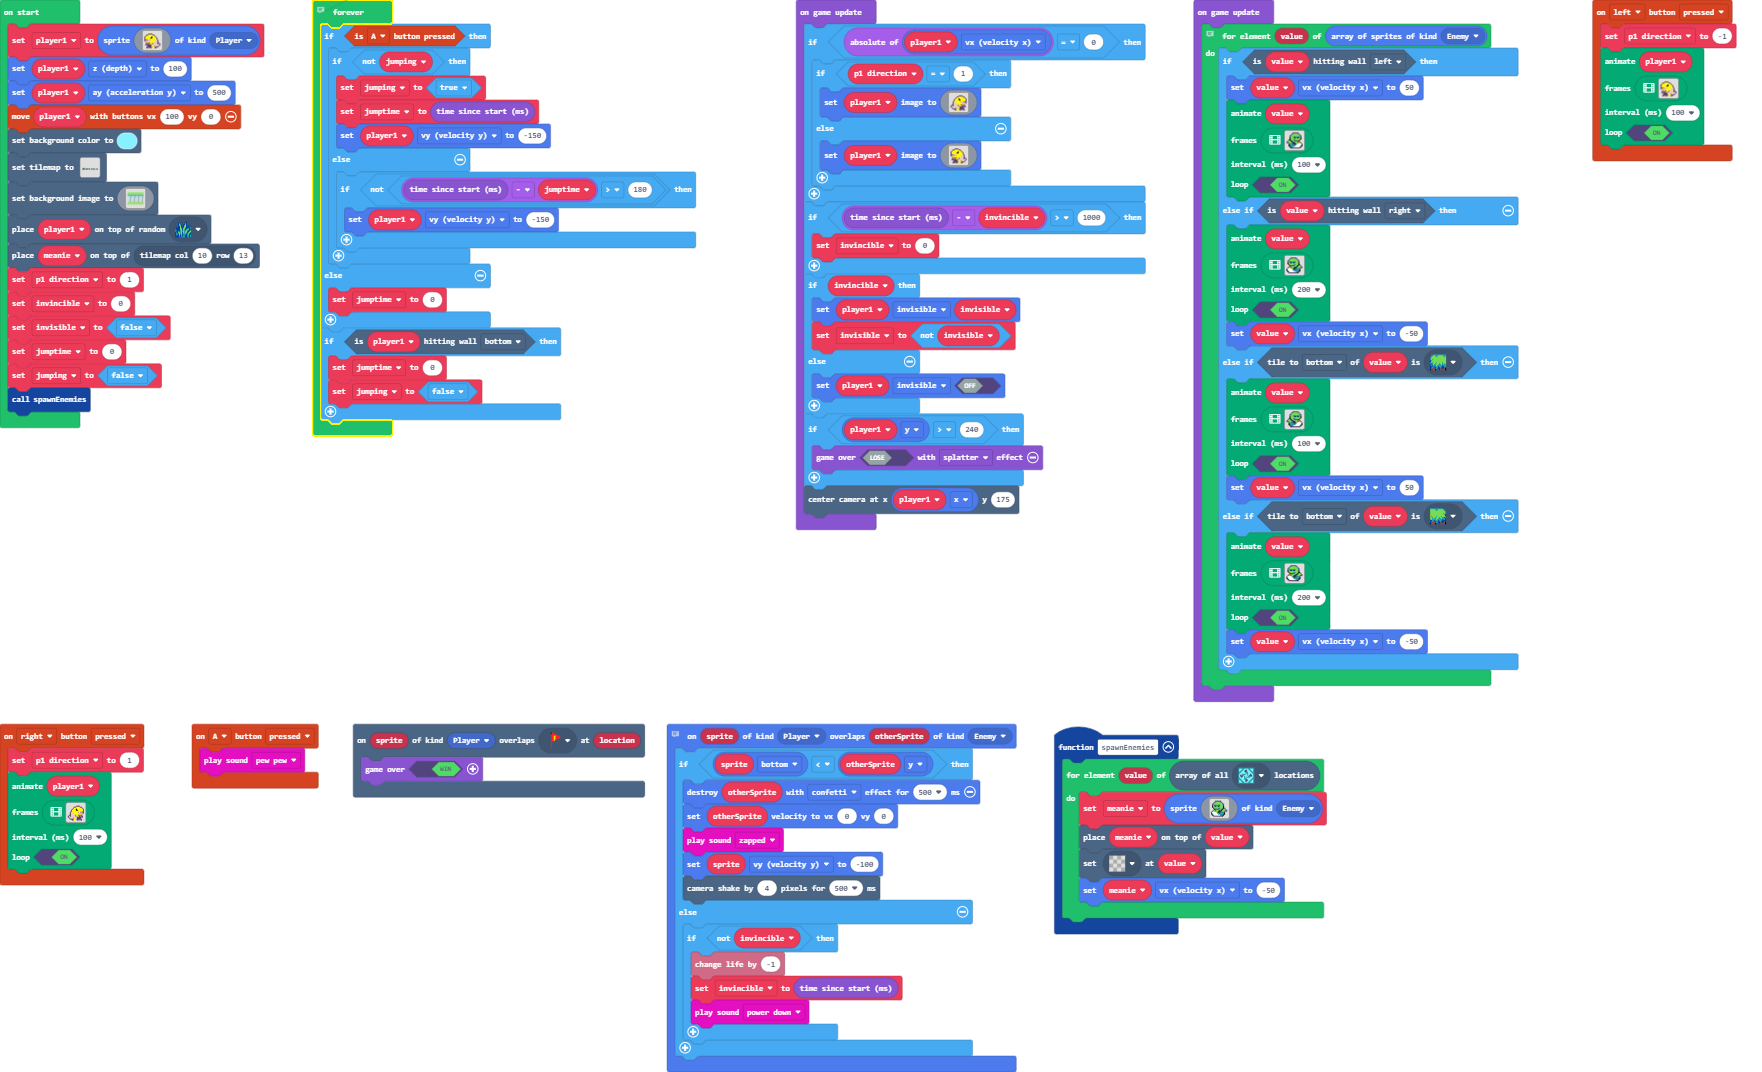
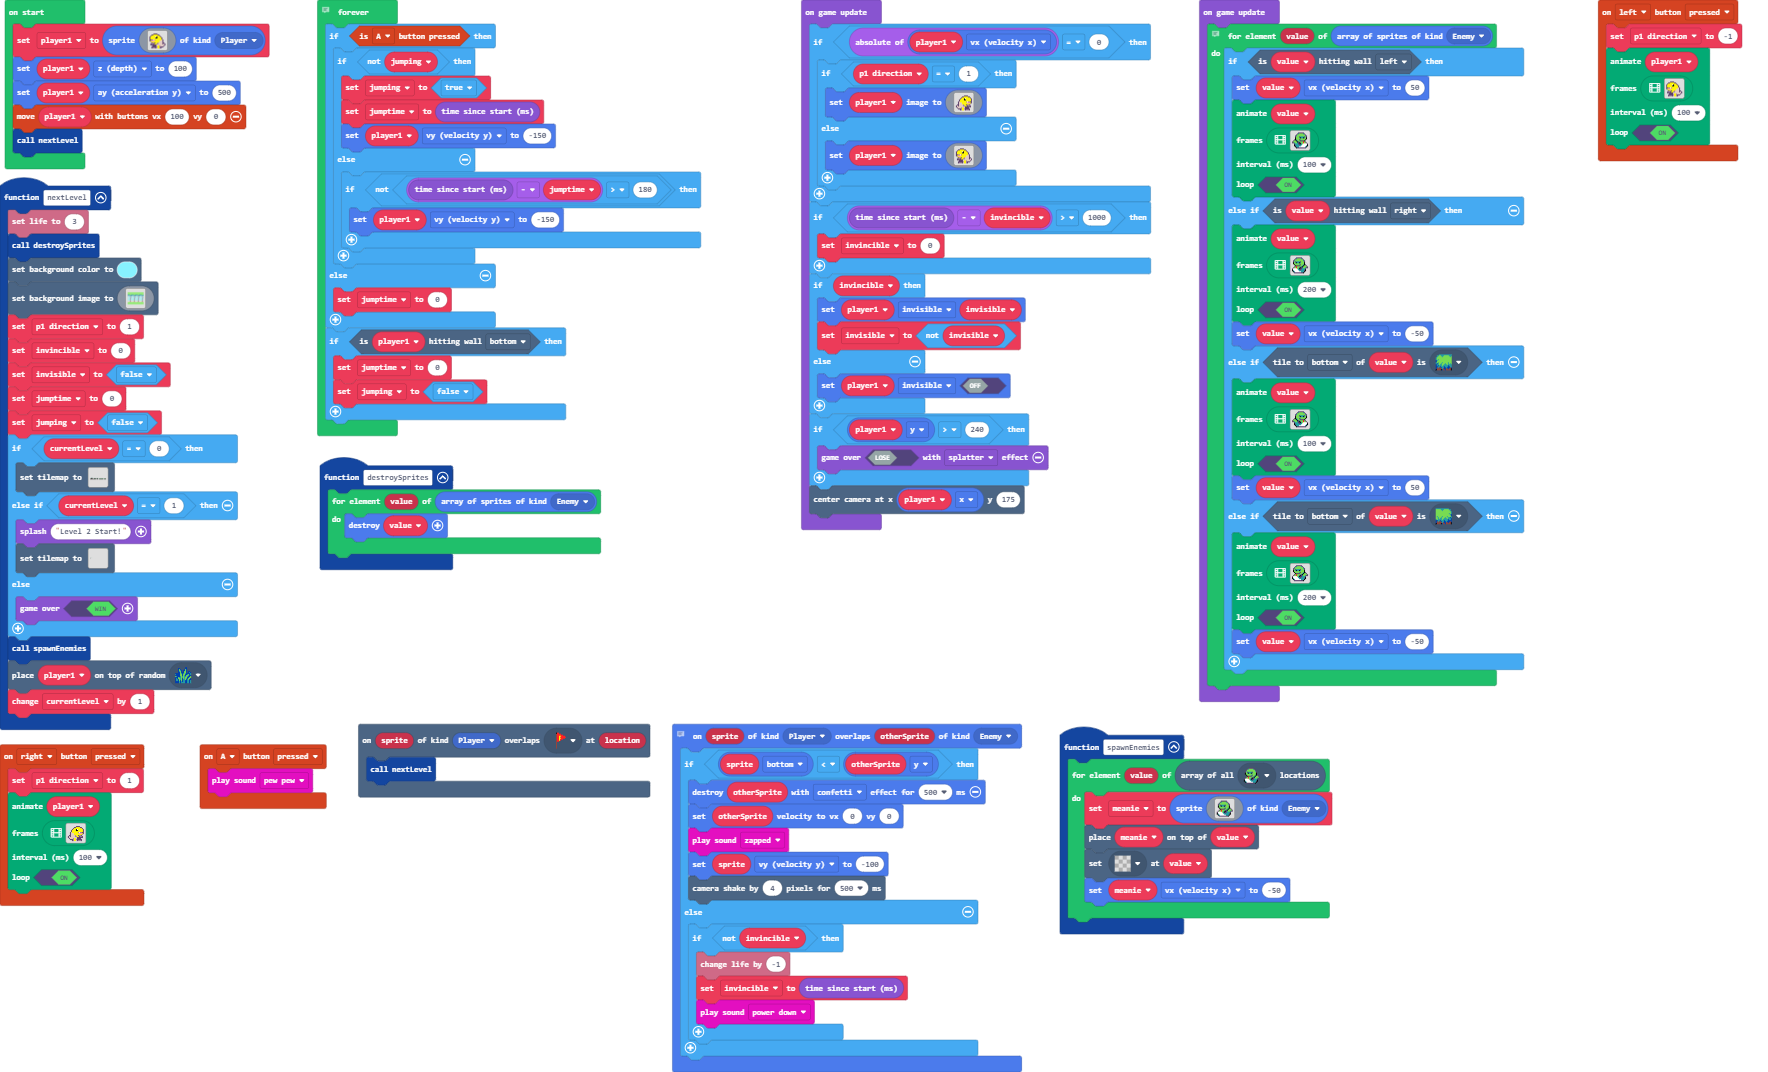
Added level 2

diff --git a/tilemap.g.ts b/tilemap.g.ts
@@ -3,12 +3,31 @@ namespace myTiles {
     //% fixedInstance jres blockIdentity=images._tile
     export const transparency16 = image.ofBuffer(hex``);
     //% fixedInstance jres blockIdentity=images._tile
-    export const tile1 = image.ofBuffer(hex``);
-    //% fixedInstance jres blockIdentity=images._tile
     export const tile2 = image.ofBuffer(hex``);
+    //% fixedInstance jres blockIdentity=images._tile
+    export const tile1 = image.ofBuffer(hex``);
 
     helpers._registerFactory("tilemap", function(name: string) {
         switch(helpers.stringTrim(name)) {
+            case "level3":
+            case "level3":return tiles.createTilemap(hex`1000100000000000000000000000000000000000000000000000000000000000000000000000000000000000000000000000000000000000000000000000000000000000000000000000000000000000000000000000000000000000000000000000000000000000000000000000000000000000000000000000000000000000000000000000000000000000000000000000000000000000000000000000000000000000000000000000000000000000000000000000000000000000000000000000000000000000000000000000000000000000000000000000000000000000000000000000000000000000000000000000000000000000000000000000000000000000`, img`
+. . . . . . . . . . . . . . . . 
+. . . . . . . . . . . . . . . . 
+. . . . . . . . . . . . . . . . 
+. . . . . . . . . . . . . . . . 
+. . . . . . . . . . . . . . . . 
+. . . . . . . . . . . . . . . . 
+. . . . . . . . . . . . . . . . 
+. . . . . . . . . . . . . . . . 
+. . . . . . . . . . . . . . . . 
+. . . . . . . . . . . . . . . . 
+. . . . . . . . . . . . . . . . 
+. . . . . . . . . . . . . . . . 
+. . . . . . . . . . . . . . . . 
+. . . . . . . . . . . . . . . . 
+. . . . . . . . . . . . . . . . 
+. . . . . . . . . . . . . . . . 
+`, [myTiles.transparency16], TileScale.Sixteen);
             case "level1":
[1 lines of base64/hex data omitted]
 ................................................................
@@ -28,6 +47,25 @@ namespace myTiles {
 22222222222222222.....2...2....2....2...............2...2......2
 2..2.....2......2222222...222222....22222222222222222...22222222
 `, [myTiles.transparency16,sprites.builtin.forestTiles1,sprites.builtin.forestTiles10,sprites.builtin.forestTiles2,sprites.builtin.forestTiles5,sprites.builtin.forestTiles9,sprites.builtin.forestTiles6,sprites.builtin.forestTiles11,sprites.builtin.forestTiles7,sprites.builtin.forestTiles12,sprites.swamp.swampTile1,sprites.swamp.swampTile0,sprites.swamp.swampTile2,sprites.builtin.forestTiles3,myTiles.tile1,myTiles.tile2], TileScale.Sixteen);
+            case "level2":
[1 lines of base64/hex data omitted]
+...............................................................................................................................................................................................................................................................
+...............................................................................................................................................................................................................................................................
+...............................................................................................................................................................................................................................................................
+...............................................................................................................................................................................................................................................................
+...............................................................................................................................................................................................................................................................
+...............................................................................................................................................................................................................................................................
+...............................................................................................................................................................................................................................................................
+...............................................................................................................................................................................................................................................................
+...............................................................................................................................................................................................................................................................
+.....................2222222...................................................................................................................................................................................................................................
+............2222222............................................................................................................................................................................................................................................
+22222222222....................................................................................................................................................................................................................................................
+2.........2..................22222222..........................................................................................................................................................................................................................
+2.........2....................................................................................................................................................................................................................................................
+2.........2....................................................................................................................................................................................................................................................
+22222222222....................................................................................................................................................................................................................................................
+`, [myTiles.transparency16,sprites.builtin.forestTiles2,sprites.swamp.swampTile1,sprites.builtin.forestTiles1,sprites.builtin.forestTiles3,sprites.builtin.forestTiles6,sprites.builtin.forestTiles11,sprites.builtin.forestTiles7,sprites.builtin.forestTiles10,myTiles.tile2,myTiles.tile1], TileScale.Sixteen);
         }
         return null;
     })
@@ -35,10 +73,10 @@ namespace myTiles {
     helpers._registerFactory("tile", function(name: string) {
         switch(helpers.stringTrim(name)) {
             case "transparency16":return transparency16;
-            case "spawnspot":
-            case "tile1":return tile1;
             case "end-flag-tile":
             case "tile2":return tile2;
+            case "spawnspot":
+            case "tile1":return tile1;
         }
         return null;
     })

diff --git a/main.ts b/main.ts
@@ -2,7 +2,7 @@ namespace SpriteKind {
     export const Thing = SpriteKind.create()
 }
 scene.onOverlapTile(SpriteKind.Player, assets.tile`end-flag-tile`, function (sprite, location) {
-    game.over(true)
+    nextLevel()
 })
 controller.A.onEvent(ControllerButtonEvent.Pressed, function () {
     music.pewPew.play()
@@ -33,6 +33,33 @@ function spawnEnemies () {
         meanie.vx = -50
     }
 }
+function nextLevel () {
+    info.setLife(3)
+    destroySprites()
+    scene.setBackgroundColor(9)
+    scene.setBackgroundImage(assets.image`Forest`)
+    p1_direction = 1
+    invincible = 0
+    invisible = false
+    jumptime = 0
+    jumping = false
+    if (currentLevel == 0) {
+        tiles.setTilemap(tilemap`level1`)
+    } else if (currentLevel == 1) {
+        game.splash("Level 2 Start!")
+        tiles.setTilemap(tilemap`level2`)
+    } else {
+        game.over(true)
+    }
+    spawnEnemies()
+    tiles.placeOnRandomTile(player1, sprites.swamp.swampTile1)
+    currentLevel += 1
+}
+function destroySprites () {
+    for (let value of sprites.allOfKind(SpriteKind.Enemy)) {
+        value.destroy()
+    }
+}
 // Enemy kill and hurt logic
 sprites.onOverlap(SpriteKind.Player, SpriteKind.Enemy, function (sprite, otherSprite) {
     if (sprite.bottom < otherSprite.y) {
@@ -49,25 +76,19 @@ sprites.onOverlap(SpriteKind.Player, SpriteKind.Enemy, function (sprite, otherSp
         }
     }
 })
+let currentLevel = 0
+let jumping = false
+let jumptime = 0
+let invisible = false
 let invincible = 0
-let p1_direction = 0
 let meanie: Sprite = null
+let p1_direction = 0
 let player1: Sprite = null
 player1 = sprites.create(assets.image`Tommy`, SpriteKind.Player)
 player1.z = 100
 player1.ay = 500
 controller.moveSprite(player1, 100, 0)
-scene.setBackgroundColor(9)
-tiles.setTilemap(tilemap`level1`)
-scene.setBackgroundImage(assets.image`Forest`)
-tiles.placeOnRandomTile(player1, sprites.swamp.swampTile1)
-tiles.placeOnTile(meanie, tiles.getTileLocation(10, 13))
-p1_direction = 1
-invincible = 0
-let invisible = false
-let jumptime = 0
-let jumping = false
-spawnEnemies()
+nextLevel()
 game.onUpdate(function () {
     if (Math.abs(player1.vx) == 0) {
         if (p1_direction == 1) {
